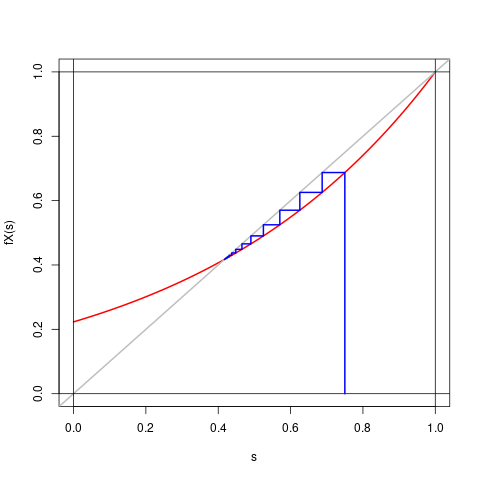
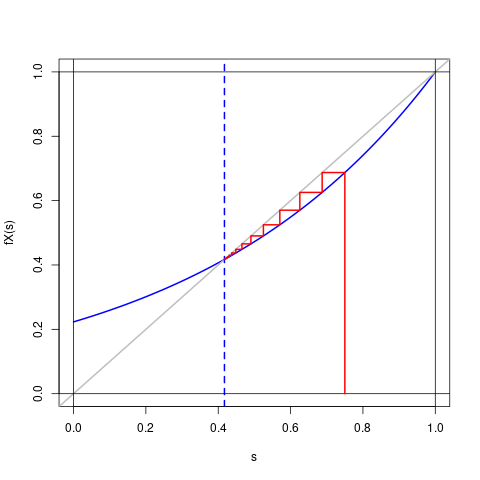
BGW

diff --git a/Notes/4-Proba-Branchement.tex b/Notes/4-Proba-Branchement.tex
@@ -210,9 +210,9 @@ $$
 $$
 
 \begin{proposition}
-  La probabilité d'extinction $q$ est un point fixe de la fonction génératrice de $Z_1$ :
+  La probabilité d'extinction $q$ est un point fixe de la fonction génératrice de $X$ :
   $$
-  q = f_{Z_1}(q).
+  q = f_X(q).
   $$
 \end{proposition}
 
@@ -227,29 +227,13 @@ q
 = \Pr_1\{Ext\} 
 = \sum_{k \geq 0} \Pr_1\{Z_1 = k\} \Pr_k\{Ext\}
 = \sum_{k \geq 0} \Pr_1\{Z_1 = k\} q^k
-= f_{Z_1}(q).
+= f_{Z_1}(q)
+= f_X(q).
 $$
 
 \begin{definition}
   Soit $m = \Esp(X) = f'_X(1)$ le nombre moyen de descendants. Le processus BGW est dit critique si $m=1$, sous-critique si $m < 1$ et sur-critique si $m > 1$.
 \end{definition}
-
-\dessin{
-  $$
-  \includegraphics[width=.5\textwidth]{ExGaltonWatson-pgf}
-  $$
-  $f_X$ monotone croissante de $f_X(0) \in ]0, 1[$ à $f_X(1) = 1$ et bissectrice :
-  \begin{itemize}
-    \item si $m = f'_X(1) \leq 1$: 1 est le seul point fixe,
-    \item si $m > 1$ : plusieurs points fixes
-  \end{itemize}
-}
-
-\remark
-\begin{enumerate}
-  \item On voit facilement que la probabilité d'extinction $q$ vaut $q = 1$ si le processus est critique ou sous-critique. 
-  \item Il reste à étudier le cas sur-critique pour déterminer quel point fixe donne la probabilité d'extinction.
-\end{enumerate}
 
 \begin{proposition} \label{prop:fonctionGeneratriceZn}
   La fonction génératrice de $Z_n$ partant de $Z_0 = 1$ est
@@ -269,15 +253,21 @@ f_{Z_n} = f_{Z_{n-1}} \circ f_X
 $$
 et la preuve se conclue en remarquant que $f_{Z_1} = f_X$, puisque $Z_0 = 1$.
 
-\remark
-Cette récurrence nous assure notamment que, en notant $m = \Esp(X_{ni}) = f'_X
-(1)$, $$
-\Esp(Z_{n+1}) = \Esp_{Z_n}\Esp(Z_{n+1} \mid Z_n)) = m \Esp(Z_n).
-$$
-Notamment, partant de $Z_0 = 1$, on a $\Esp_1(Z_{n+1}) = m^{n+1}$.
+\remarks
+\begin{enumerate}
+  \item Cette récurrence nous assure notamment que, en notant $m = \Esp(X_{ni}) = f'_X
+  (1)$, $$
+  \Esp(Z_{n+1}) = \Esp_{Z_n}\Esp(Z_{n+1} \mid Z_n)) = m \Esp(Z_n).
+  $$
+  Notamment, partant de $Z_0 = 1$, on a $\Esp_1(Z_{n+1}) = m^{n+1}$.
+  \item Dans le cas où $Z_0$ est aléatoire, de fonction génératrice $f_{Z_0}$, on obtient de la même manière
+  $$
+  f_{Z_n} = \underset{n \text{ fois}}{\underbrace{f_X \circ f_X \circ \dots \circ f_X}} \circ f_{Z_0}.
+  $$
+\end{enumerate}
 
 \begin{lemma} \label{lem:BGWnombrePointsFixes}
-  Si $f_x(0) > 0$, $f_X$ admet pour points fixes dans $[0, 1]$
+  Si $f_X(0) > 0$, $f_X$ admet pour points fixes dans $[0, 1]$
   \begin{align*}
     \{s = 1\} & \text{ si } m \leq 1, &
     \{0 < s_1 < 1, s_2=1\} & \text{ si } m > 1.
@@ -285,15 +275,12 @@ Notamment, partant de $Z_0 = 1$, on a $\Esp_1(Z_{n+1}) = m^{n+1}$.
 \end{lemma}
 
 \proof
-Il s'agit alors de montrer que la position de
+Il s'agit de montrer que la position de
 $$
 m = \Esp(X) = f'_X(1)
 $$
-par rapport à 1 contrôle la valeur de la probabilité s'extinction $q$ dont on sait que c'est un point fixe de $f_X$ : 
-$$
-q = f_X(q).
-$$
-On distingue les deux cas $\Pr\{X\geq 2\} = 0$ ou $\Pr\{X\geq 2\} > 0$.
+par rapport à 1 contrôle le nombre de points fixes de $f_X$.
+Pour cela, on distingue les deux cas $\Pr\{X\geq 2\} = 0$ ou $\Pr\{X\geq 2\} > 0$.
 \begin{itemize}
   \item Si $\Pr\{X\geq 2\} = 0$, alors $X \in \{0, 1\}$, donc c'est une variable de Bernoulli $\Bcal(m)$ et $f_X(s)$ est linéaire, de pente $m \leq 1$. $f_X$ ne croise donc la première bissectrice qu'en $s = 1$.
   \item Si $\Pr\{X\geq 2\} > 0$, alors
@@ -306,8 +293,26 @@ On distingue les deux cas $\Pr\{X\geq 2\} = 0$ ou $\Pr\{X\geq 2\} > 0$.
 \end{itemize}
 \eproof
 
-\remark
-Dans le lemme \ref{lem:BGWnombrePointsFixes}, on écarte le cas $f_x(0) = \Pr\{X = 0\} = 0$, car alors chaque individu a au moins un descendant et donc $q = 0$. 
+$$
+\begin{tabular}{cc}
+  \begin{tabular}{lc}
+    \textcolor{red}{\bf --} : $m < 1$ \\ ~ \\
+    \textcolor{green}{\bf --} : $m = 1$ \\ ~ \\
+    \textcolor{blue}{\bf --} : $m > 1$
+  \end{tabular}
+  &
+  \begin{tabular}{cc}
+  \includegraphics[width=.4\textwidth]{GaltonWatson-pgf}
+  \end{tabular}
+\end{tabular}
+$$
+
+\remarks
+\begin{enumerate}
+  \item Dans le lemme \ref{lem:BGWnombrePointsFixes}, on écarte le cas $f_x(0) = \Pr\{X = 0\} = 0$, car alors chaque individu a au moins un descendant et donc $q = 0$. 
+  \item On voit ainsi que la probabilité d'extinction vaut $q = 1$ si le processus est sous-critique ($m < 1$) ou sous-critique ($m = 1$, puisque $\Pr\{X = 0\} > 0$). 
+  \item Il reste à étudier le cas sur-critique pour déterminer quel point fixe donne la probabilité d'extinction.
+\end{enumerate}
 
 \begin{proposition}
   La probabilité d'extinction $q$ est la plus petite solution de l'équation de point fixe $s = f_X(s)$.
@@ -318,42 +323,40 @@ On note, pour $n \geq 0$:
 $$
 q_n := \Pr_1\{Z_n = 0\} = \Pr_1\{T_0 \leq n\}\geq \Pr_1\{T_0 = n\}.
 $$
-Par la proposition précédente on a:
+Par la proposition \ref{prop:fonctionGeneratriceZn} on a:
 $$
 q_{n+1} = f_{Z_{n+1}}(0) = f_X \circ f_{Z_n} (0) = f_X(\Pr_1\{Z_n = 0\}) = f_X(q_n).
 $$
-$q$ est donc bien un point fixe de $f$. Le lemme \ref{lem:BGWnombrePointsFixes} indique que leur nombre dépend de la position de $m$ par rapport à 1. Il reste montrer que $q$ est le plus petit d'entre eux, noté $s^*$. \\
-% La convergence vers le plus petit point fixe s'obtient en remarquant que, puisque $Z_0 = 1$, on a $q_0 = 0$ et en considérant la figure ci-dessous qui s'appuie sur le fait que $f_X(s) > s$ pour $s$ inférieur au plus petit point fixe.
-On note, pour $n \geq 0$:
-$$
-q_n := \Pr_1\{Z_n = 0\}.
-$$
-Par la proposition \ref{prop:fonctionGeneratriceZn}, on a:
-$$
-q_{n+1} = f_{Z_{n+1}}(0) = f_X \circ f_{Z_n} (0) = f_X(\Pr_1\{Z_n = 0\}) = f_X(q_n).
-$$
-La convergence de la suite $(q_n)_{n \geq 0}$ vers le plus petit point fixe s'obtient en remarquant que
+% $q$ est donc bien un point fixe de $f$. Le lemme \ref{lem:BGWnombrePointsFixes} indique que leur nombre dépend de la position de $m$ par rapport à 1. Il reste montrer que $q$ est le plus petit d'entre eux, noté $s^*$. \\
+% % La convergence vers le plus petit point fixe s'obtient en remarquant que, puisque $Z_0 = 1$, on a $q_0 = 0$ et en considérant la figure ci-dessous qui s'appuie sur le fait que $f_X(s) > s$ pour $s$ inférieur au plus petit point fixe.
+% On note, pour $n \geq 0$:
+% $$
+% q_n := \Pr_1\{Z_n = 0\}.
+% $$
+% Par la proposition \ref{prop:fonctionGeneratriceZn}, on a:
+% $$
+% q_{n+1} = f_{Z_{n+1}}(0) = f_X \circ f_{Z_n} (0) = f_X(\Pr_1\{Z_n = 0\}) = f_X(q_n).
+% $$
+La convergence de la suite $(q_n)_{n \geq 0}$ vers le plus petit point fixe s'obtient en remarquant que $f_X$ est une fonction croissante et que
 $$
 s < s^* \; \Rightarrow \; f(s) > s, \qquad \qquad
-s > s^* \; \Rightarrow \; f(s) < s
+s > s^* \; \Rightarrow \; f(s) < s.
 $$
-et en appliquant la récurrence précédente :
+$(q_n)_{n \geq 0}$ est donc une suite croissante si $q_0  < s^*$ et décroissante dans le cas contraire :
 $$
 \begin{tabular}{ccc}
   & $q_0 = .05$ & $q_0 = .75$ \\
   \begin{tabular}{lc}
-    \textcolor{red}{\bf --} : $f_X(s)$ \\ ~ \\
-%     \textcolor{blue}{\bf--} : première bissectrice \\ ~ \\
-    \textcolor{blue}{\bf --} : $(q_n)_{n \geq 0}$
-    %itérations du point fixe
+    \textcolor{blue}{\bf --} : $f_X(s)$ \\ ~ \\
+    \textcolor{red}{\bf --} : $(q_n)_{n \geq 0}$
   \end{tabular}
   &
   \begin{tabular}{cc}
-  \includegraphics[width=.4\textwidth, trim=0 10 25 50, clip=]{ExGaltonWatson-fixPoint-q05}
+  \includegraphics[width=.4\textwidth, trim=0 10 25 50, clip=]{GaltonWatson-fixPoint-q05}
   \end{tabular}
   &
   \begin{tabular}{cc}
-  \includegraphics[width=.4\textwidth, trim=0 10 25 50, clip=]{ExGaltonWatson-fixPoint-q075}
+  \includegraphics[width=.4\textwidth, trim=0 10 25 50, clip=]{GaltonWatson-fixPoint-q075}
   \end{tabular}
 \end{tabular}
 $$
